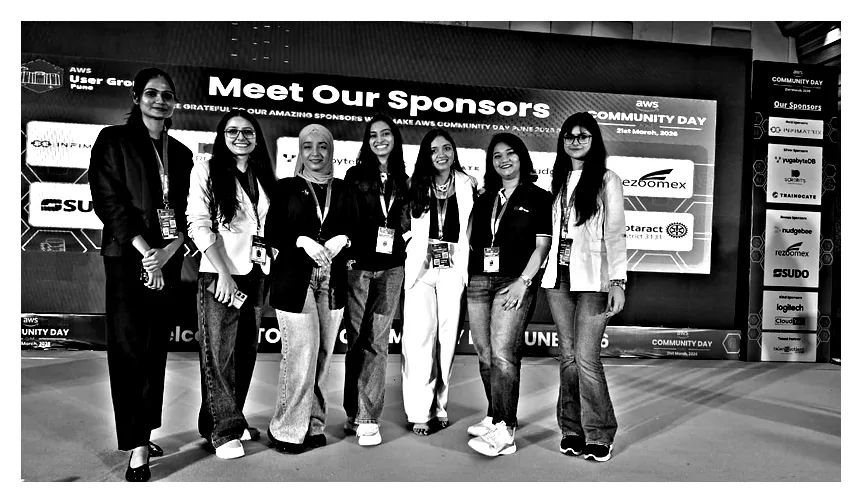
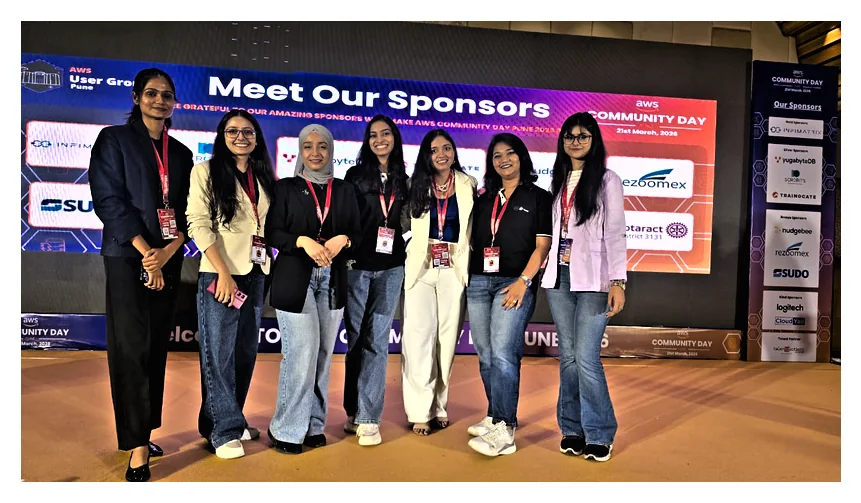
Update team member roles and enhance sticker rendering for color photos

diff --git a/src/story/Sticker.tsx b/src/story/Sticker.tsx
@@ -3,6 +3,8 @@ import type { StickerArt } from './art';
 
 /**
  * A photocopied halftone cut-out sticker.
+ * Art marked `color` (the event photos) is printed as a colour halftone with a finer screen; the rest
+ * (fort, doors, clouds) stays a one-ink photocopy.
  *
  * The file on disk is a smooth grayscale "tone" image with a white die-cut border (small, compresses
  * well). In the browser it is turned into a newspaper dot screen once, on a canvas, at the screen's
@@ -30,6 +32,10 @@ const hex = (c: string) => {
   return [(n >> 16) & 255, (n >> 8) & 255, n & 255];
 };
 
+/** Colour prints: how far the gaps between dots lift towards white, and how dark the dots are. */
+const LIGHT = 0.4;
+const DARK = 0.52;
+
 /** One period of a 45° dot screen, as thresholds 0..1, sized so it tiles exactly. */
 const screenTile = (pitch: number) => {
   const p = Math.max(4, Math.round(pitch * Math.SQRT2));
@@ -45,7 +51,7 @@ const screenTile = (pitch: number) => {
   return { t, p };
 };
 
-const draw = (img: HTMLImageElement, canvas: HTMLCanvasElement, cssW: number, cell: number, ink: string, paper: string) => {
+const draw = (img: HTMLImageElement, canvas: HTMLCanvasElement, cssW: number, cell: number, ink: string, paper: string, color: boolean) => {
   const dpr = Math.min(window.devicePixelRatio || 1, 2.5);
   const W = Math.min(2600, Math.max(1, Math.round(cssW * dpr)));
   const H = Math.max(1, Math.round((W * img.naturalHeight) / img.naturalWidth));
@@ -66,6 +72,19 @@ const draw = (img: HTMLImageElement, canvas: HTMLCanvasElement, cssW: number, ce
     for (let x = 0; x < W; x++) {
       const i = (y * W + x) * 4;
       if (px[i + 3] === 0) continue;
+      if (color) {
+        // colour print: the photo keeps its colours; where a dot sits it is darker, between dots lighter
+        const r = px[i];
+        const g = px[i + 1];
+        const b = px[i + 2];
+        const tone = (0.3 * r + 0.59 * g + 0.11 * b) / 255;
+        const d = (t[row + (x % p)] - tone) / soft + 0.5;
+        const a = d <= 0 ? 0 : d >= 1 ? 1 : d;
+        px[i] = r + (255 - r) * LIGHT + (r * DARK - (r + (255 - r) * LIGHT)) * a;
+        px[i + 1] = g + (255 - g) * LIGHT + (g * DARK - (g + (255 - g) * LIGHT)) * a;
+        px[i + 2] = b + (255 - b) * LIGHT + (b * DARK - (b + (255 - b) * LIGHT)) * a;
+        continue;
+      }
       const tone = px[i] / 255;
       const d = (t[row + (x % p)] - tone) / soft + 0.5; // >1 = full ink
       const a = d <= 0 ? 0 : d >= 1 ? 1 : d;
@@ -80,10 +99,13 @@ const draw = (img: HTMLImageElement, canvas: HTMLCanvasElement, cssW: number, ce
 export type StickerHandle = { el: HTMLDivElement | null };
 
 const Sticker = forwardRef<StickerHandle, Props>(
-  ({ art, alt = '', cell = 4.2, ink = '#141210', paper = '#faf7f0', className, style, eager, children }, ref) => {
+  ({ art, alt = '', cell: cellProp, ink = '#141210', paper = '#faf7f0', className, style, eager, children }, ref) => {
     const wrap = useRef<HTMLDivElement>(null);
     const canvas = useRef<HTMLCanvasElement>(null);
     const [ready, setReady] = useState(false);
+    const color = !!art.color;
+    // colour photos get a finer screen so faces stay recognisable
+    const cell = cellProp ?? (color ? 2.4 : 4.2);
     useImperativeHandle(ref, () => ({ el: wrap.current }), []);
 
     useEffect(() => {
@@ -100,7 +122,7 @@ const Sticker = forwardRef<StickerHandle, Props>(
         if (drawnW && Math.abs(w - drawnW) / drawnW < 0.25) return; // redraw only on real size changes
         drawnW = w;
         try {
-          draw(img, cv, w, cell, ink, paper);
+          draw(img, cv, w, cell, ink, paper, color);
           if (!cancelled) setReady(true);
         } catch {
           /* canvas unavailable: the tone image stays visible */
@@ -140,12 +162,12 @@ const Sticker = forwardRef<StickerHandle, Props>(
         window.removeEventListener('resize', onResize);
         clearTimeout(t);
       };
-    }, [art.src, cell, ink, paper, eager]);
+    }, [art.src, cell, ink, paper, eager, color]);
 
     return (
       <div
         ref={wrap}
-        className={`stk${ready ? ' is-ready' : ''}${className ? ` ${className}` : ''}`}
+        className={`stk${color ? ' stk--color' : ''}${ready ? ' is-ready' : ''}${className ? ` ${className}` : ''}`}
         style={{ aspectRatio: `${art.w} / ${art.h}`, ...style }}
         role={alt ? 'img' : undefined}
         aria-label={alt || undefined}

diff --git a/src/hte/HerTechEraSite.tsx b/src/hte/HerTechEraSite.tsx
@@ -19,8 +19,10 @@ import { hteArt } from './art';
  */
 
 const WIT_LINKEDIN = 'https://www.linkedin.com/company/aws-ug-for-women-in-tech-india/';
-const INK = '#21154a';
-const PAPER = '#f6f1ff';
+const LEADS = [
+  { name: 'Afreen Bano', linkedin: 'https://linkedin.com/in/afreen-bano/' },
+  { name: 'Anjali Mishra', linkedin: 'https://linkedin.com/in/anjali-mishra-b221a01ba/' },
+];
 
 const stats = [
   { value: '500+', label: 'women reached', detail: 'across meetups and workshops', tone: 'ink' },
@@ -43,6 +45,7 @@ const timeline = [
   { date: 'Dec 2024', title: 'Community Day feature', description: 'Dedicated Women in Tech track at AWS Community Day Pune 2024.' },
   { date: 'Mar 2025', title: 'Growing strong', description: 'Expanded to regular monthly sessions with mentorship pairing program.' },
   { date: 'May 2025', title: 'AWS Community Day 2025', description: 'Women in Tech sessions featured prominently with record participation.' },
+  { date: 'Mar 2026', title: 'The Pune chapter kicks off', description: 'Her Tech Era Pune launches at AWS Community Day Pune 2026, led by Afreen Bano and Anjali Mishra.' },
 ];
 
 const voices = [
@@ -122,7 +125,7 @@ const Hero = ({ onJoin }: { onJoin: () => void }) => {
       <p className="h-hero__tag">Scaling heights. Building dreams.</p>
       <div className="h-hero__row">
         <div ref={photo} className="h-hero__photo">
-          <Sticker art={hteArt.g6} eager ink={INK} paper={PAPER} cell={3.6} alt="Two members with a prize beside the winged Her Tech Era standee" />
+          <Sticker art={hteArt.g6} eager alt="Two members with a prize beside the winged Her Tech Era standee" />
           <div className="h-hero__star">
             <Star />
           </div>
@@ -132,6 +135,14 @@ const Hero = ({ onJoin }: { onJoin: () => void }) => {
             Workshops, mentorship and a stage for women in cloud, AI and DevOps. Powered by{' '}
             <Link to="/">AWS User Group Pune</Link>.
           </p>
+          <div className="h-hero__kickoff">
+            <span className="dymo dymo--orange dymo--sm">Kicked off at AWS Community Day Pune 2026</span>
+            <p>
+              The Pune chapter of Her Tech Era started at ACD 2026 and is led by{' '}
+              <a href={LEADS[0].linkedin} target="_blank" rel="noopener noreferrer">{LEADS[0].name}</a> and{' '}
+              <a href={LEADS[1].linkedin} target="_blank" rel="noopener noreferrer">{LEADS[1].name}</a>.
+            </p>
+          </div>
           <p className="dymo dymo--sm h-hero__recap">Thank you, Pune · 18 Oct 2026 recap</p>
           <div className="h-hero__cta">
             <button type="button" className="btn btn--orange" onClick={onJoin}>
@@ -293,7 +304,7 @@ const HerTechEraSite = () => {
           <div className="h-gallery__wall">
             {gallery.map((g, i) => (
               <figure key={g.cap} className={`paste h-gallery__item h-gallery__item--${i}`} data-slap style={{ ['--rot' as string]: `${ROT[i]}deg` }}>
-                <Sticker art={g.art} alt={g.alt} ink={INK} paper={PAPER} cell={3.6} />
+                <Sticker art={g.art} alt={g.alt} />
                 <figcaption className="dymo dymo--sm">{g.cap}</figcaption>
               </figure>
             ))}

diff --git a/src/story/story.css b/src/story/story.css
@@ -57,6 +57,7 @@
 }
 .stk__tone { filter: contrast(1.4); }
 .stk.is-ready .stk__tone { visibility: hidden; }
+.stk--color .stk__tone { filter: none; }
 
 .paste { position: relative; --rot: -3deg; transform: rotate(var(--rot)); }
 .paste figcaption { position: absolute; z-index: 2; left: 10px; bottom: -14px; }
@@ -433,8 +434,6 @@ a.s-team__first:hover { color: var(--orange); -webkit-text-stroke-color: var(--o
   padding: 5px 8px 4px; background: var(--paper); color: var(--ink); box-shadow: 0 3px 8px rgba(0, 0, 0, 0.3);
 }
 .s-team__item[data-tag='1'] .s-team__detail { transform: rotate(1.5deg); background: var(--orange); }
-.s-team__star { display: inline-block; width: 0.42em; margin: 0.12em 0 0; color: var(--orange); }
-.s-team__star svg { display: block; width: 100%; height: auto; }
 .s-team__vols { margin-top: 48px; display: grid; gap: 14px; }
 .s-team__vols h3 { font-family: var(--display); text-transform: uppercase; letter-spacing: 0.04em; font-size: 1.5rem; }
 .s-team__vols ul { display: flex; flex-wrap: wrap; gap: 8px; }
@@ -685,7 +684,7 @@ a.s-team__first:hover { color: var(--orange); -webkit-text-stroke-color: var(--o
 .story--hte .foot__links a:hover, .story--hte a.s-team__first:hover { color: var(--lilac); }
 .story--hte .s-team__vols li:nth-child(3n + 2) a { background: var(--lilac); }
 .story--hte .foot__meta { color: #b5a9d6; }
-.story--hte .s-team__item[data-tone='2'] .s-team__first, .story--hte .s-team__star { color: var(--lilac); }
+.story--hte .s-team__item[data-tone='2'] .s-team__first { color: var(--lilac); }
 .story--hte .s-team__item[data-tag='1'] .s-team__detail { background: var(--lilac); }
 .story--hte a.s-team__first:hover { -webkit-text-stroke-color: var(--lilac); }
 .story--hte ::selection { background: var(--lilac); color: var(--ink); }
@@ -716,6 +715,12 @@ a.s-team__first:hover { color: var(--orange); -webkit-text-stroke-color: var(--o
 .h-hero__side { display: grid; gap: 18px; justify-items: center; }
 .h-hero__lead { max-width: 36ch; font-size: 1.1rem; }
 .h-hero__lead a { font-weight: 700; text-decoration: underline; text-underline-offset: 4px; }
+/* who leads the chapter, on a taped white note */
+.h-hero__kickoff { position: relative; display: grid; gap: 10px; justify-items: start; max-width: 36ch; padding: 18px 16px 14px; background: var(--white); color: var(--ink); text-align: left; transform: rotate(-1.5deg); box-shadow: 0 10px 22px rgba(0, 0, 0, 0.3); }
+.h-hero__kickoff::before { content: ''; position: absolute; top: -10px; left: 50%; width: 84px; height: 20px; margin-left: -42px; background: rgba(201, 182, 255, 0.85); transform: rotate(-4deg); }
+.h-hero__kickoff .dymo { white-space: normal; line-height: 1.15; }
+.h-hero__kickoff p { font-size: 1rem; line-height: 1.4; }
+.h-hero__kickoff a { font-weight: 700; text-decoration: underline; text-decoration-thickness: 2px; text-underline-offset: 3px; }
 .h-hero__cta { display: flex; flex-wrap: wrap; justify-content: center; gap: 12px; }
 @media (min-width: 1024px) {
   .h-hero__row { grid-template-columns: auto 1fr; justify-items: start; align-items: center; text-align: left; gap: 60px; }

diff --git a/src/hooks/use-team.ts b/src/hooks/use-team.ts
@@ -21,14 +21,14 @@ const fallbackCore: TeamMember[] = [
   { name: 'Ameya Vaidya', linkedin: 'https://linkedin.com/in/ameya-vaidya-9a164317/', email: 'amyvaidya@gmail.com', twitter: '', category: 'core' },
   { name: 'Vipul Chaudhary', linkedin: 'https://linkedin.com/in/v-chaudhary/', email: '', twitter: '', category: 'core' },
   { name: 'Pulkit Kshirsagar', linkedin: 'https://linkedin.com/in/pulkit-kshirsagar/', email: '', twitter: '', category: 'core' },
-  { name: 'Afreen Bano', linkedin: 'https://linkedin.com/in/afreen-bano/', email: 'banoafreen786@gmail.com', twitter: '', category: 'core' },
+  { name: 'Afreen Bano', linkedin: 'https://linkedin.com/in/afreen-bano/', email: 'banoafreen786@gmail.com', twitter: '', category: 'core', role: 'Her Tech Era lead' },
+  { name: 'Anjali Mishra', linkedin: 'https://linkedin.com/in/anjali-mishra-b221a01ba/', email: 'anjalimishra3969@gmail.com', twitter: '', category: 'core', role: 'Her Tech Era lead' },
 ];
 
 const fallbackVolunteers: TeamMember[] = [
   { name: 'Aditya Kulkarni', linkedin: 'https://linkedin.com/in/aditya-kulkarni-b37b25200/', email: 'atharvapaithankar.rmdstic.entc@gmail.com', twitter: '', category: 'volunteer' },
   { name: 'Akanksha Jadhao', linkedin: 'https://linkedin.com/in/akanksha-jadhao/', email: '', twitter: '', category: 'volunteer' },
   { name: 'Amlan Mohapatra', linkedin: 'https://linkedin.com/in/amlan-mohapatra/', email: '', twitter: '', category: 'volunteer' },
-  { name: 'Anjali Mishra', linkedin: 'https://linkedin.com/in/anjali-mishra-b221a01ba/', email: 'anjalimishra3969@gmail.com', twitter: '', category: 'volunteer' },
   { name: 'Atul Chaudhary', linkedin: 'https://linkedin.com/in/atul-chaudhary-5a6a30257/', email: 'atulchaudhary1210@gmail.com', twitter: '', category: 'volunteer' },
   { name: 'Corey Strausman', linkedin: 'https://linkedin.com/in/coreystrausman/', email: '', twitter: '', category: 'volunteer' },
   { name: 'Dr. Bishwajit Mohapatra', linkedin: 'https://linkedin.com/in/biswajitmohapatra/', email: '', twitter: '', category: 'volunteer' },

diff --git a/src/story/art.ts b/src/story/art.ts
@@ -22,7 +22,8 @@ import printLabShadow from '@/assets/zine/print-lab-shadow.webp';
 import printStageSrc from '@/assets/zine/print-stage.webp';
 import printStageShadow from '@/assets/zine/print-stage-shadow.webp';
 
-export type StickerArt = { src: string; shadow?: string; w: number; h: number };
+/** `color`: the tone image is a colour photo, printed as a colour halftone */
+export type StickerArt = { src: string; shadow?: string; w: number; h: number; color?: boolean };
 
 export const art = {
   cloudA: { src: cloudASrc, shadow: cloudAShadow, w: 839, h: 570 },
@@ -31,12 +32,12 @@ export const art = {
   doorL: { src: doorLSrc, w: 78, h: 263 },
   doorR: { src: doorRSrc, w: 80, h: 263 },
   fort: { src: fortSrc, shadow: fortShadow, w: 1654, h: 834 },
-  printAcd: { src: printAcdSrc, shadow: printAcdShadow, w: 840, h: 572 },
-  printCrew: { src: printCrewSrc, shadow: printCrewShadow, w: 840, h: 414 },
-  printHallway: { src: printHallwaySrc, shadow: printHallwayShadow, w: 840, h: 1107 },
-  printHte: { src: printHteSrc, shadow: printHteShadow, w: 840, h: 1107 },
-  printLab: { src: printLabSrc, shadow: printLabShadow, w: 840, h: 640 },
-  printStage: { src: printStageSrc, shadow: printStageShadow, w: 840, h: 640 },
+  printAcd: { src: printAcdSrc, shadow: printAcdShadow, w: 852, h: 581, color: true },
+  printCrew: { src: printCrewSrc, shadow: printCrewShadow, w: 852, h: 419, color: true },
+  printHallway: { src: printHallwaySrc, shadow: printHallwayShadow, w: 853, h: 1123, color: true },
+  printHte: { src: printHteSrc, shadow: printHteShadow, w: 853, h: 1123, color: true },
+  printLab: { src: printLabSrc, shadow: printLabShadow, w: 853, h: 650, color: true },
+  printStage: { src: printStageSrc, shadow: printStageShadow, w: 853, h: 650, color: true },
 } satisfies Record<string, StickerArt>;
 
 /** The doorway on the fort sticker, as fractions of the sticker; seam = where the two leaves meet. */

diff --git a/src/hte/art.ts b/src/hte/art.ts
@@ -18,12 +18,12 @@ import g8Shadow from '@/assets/zine/hte-g8-shadow.webp';
 import type { StickerArt } from '@/story/art';
 
 export const hteArt = {
-  g1: { src: g1Src, shadow: g1Shadow, w: 861, h: 504 },
-  g2: { src: g2Src, shadow: g2Shadow, w: 601, h: 1035 },
-  g3: { src: g3Src, shadow: g3Shadow, w: 861, h: 504 },
-  g4: { src: g4Src, shadow: g4Shadow, w: 861, h: 587 },
-  g5: { src: g5Src, shadow: g5Shadow, w: 861, h: 587 },
-  g6: { src: g6Src, shadow: g6Shadow, w: 642, h: 840 },
-  g7: { src: g7Src, shadow: g7Shadow, w: 861, h: 503 },
-  g8: { src: g8Src, shadow: g8Shadow, w: 861, h: 587 },
+  g1: { src: g1Src, shadow: g1Shadow, w: 861, h: 504, color: true },
+  g2: { src: g2Src, shadow: g2Shadow, w: 601, h: 1035, color: true },
+  g3: { src: g3Src, shadow: g3Shadow, w: 861, h: 504, color: true },
+  g4: { src: g4Src, shadow: g4Shadow, w: 861, h: 587, color: true },
+  g5: { src: g5Src, shadow: g5Shadow, w: 861, h: 587, color: true },
+  g6: { src: g6Src, shadow: g6Shadow, w: 642, h: 840, color: true },
+  g7: { src: g7Src, shadow: g7Shadow, w: 861, h: 503, color: true },
+  g8: { src: g8Src, shadow: g8Shadow, w: 861, h: 587, color: true },
 } satisfies Record<string, StickerArt>;

diff --git a/src/story/chapters/Team.tsx b/src/story/chapters/Team.tsx
@@ -1,13 +1,4 @@
-import { Fragment } from 'react';
 import useTeam, { type TeamMember } from '@/hooks/use-team';
-
-const Star = () => (
-  <li className="s-team__star" aria-hidden="true">
-    <svg viewBox="0 0 120 120">
-      <path d="M60 4 L71 40 L108 30 L84 60 L108 90 L71 80 L60 116 L49 80 L12 90 L36 60 L12 30 L49 40 Z" fill="currentColor" />
-    </svg>
-  </li>
-);
 
 const firstName = (name: string) => {
   const parts = name.replace(/^(Dr\.?|Mr\.?|Ms\.?|Mrs\.?)\s+/i, '').trim().split(/\s+/);
@@ -53,10 +44,7 @@ const Team = () => {
       {core.length > 0 && (
         <ul className="s-team__list" aria-label="Core team">
           {core.map((p, i) => (
-            <Fragment key={p.$id || p.name}>
-              {i > 0 && <Star />}
-              <PersonLine person={p} i={i % 3} n={i} />
-            </Fragment>
+            <PersonLine key={p.$id || p.name} person={p} i={i % 3} n={i} />
           ))}
         </ul>
       )}

diff --git a/src/story/chapters/HerTechEra.tsx b/src/story/chapters/HerTechEra.tsx
@@ -51,7 +51,7 @@ const HerTechEra = () => {
         <div ref={shadowRef} className="portal__shadow" aria-hidden="true" />
         <div ref={cardRef} className="portal__card">
           <div className="portal__photo">
-            <Sticker art={art.printHte} alt="A member holding an I love AWS sign beside the Her Tech Era standee" cell={3.8} ink="#21154a" paper="#f6f1ff" />
+            <Sticker art={art.printHte} alt="A member holding an I love AWS sign beside the Her Tech Era standee" />
           </div>
           <div className="portal__text">
             <h2 id="hte-title" className="portal__title">

diff --git a/src/story/chapters/Numbers.tsx b/src/story/chapters/Numbers.tsx
@@ -122,7 +122,7 @@ const Numbers = () => {
         </h2>
 
         <div ref={photoRef} className="wall__photo">
-          <Sticker art={art.printCrew} cell={3.2} alt="The AWS User Group Pune crew together at Community Day" />
+          <Sticker art={art.printCrew} alt="The AWS User Group Pune crew together at Community Day" />
         </div>
 
         <ul className="wall__tapes">
